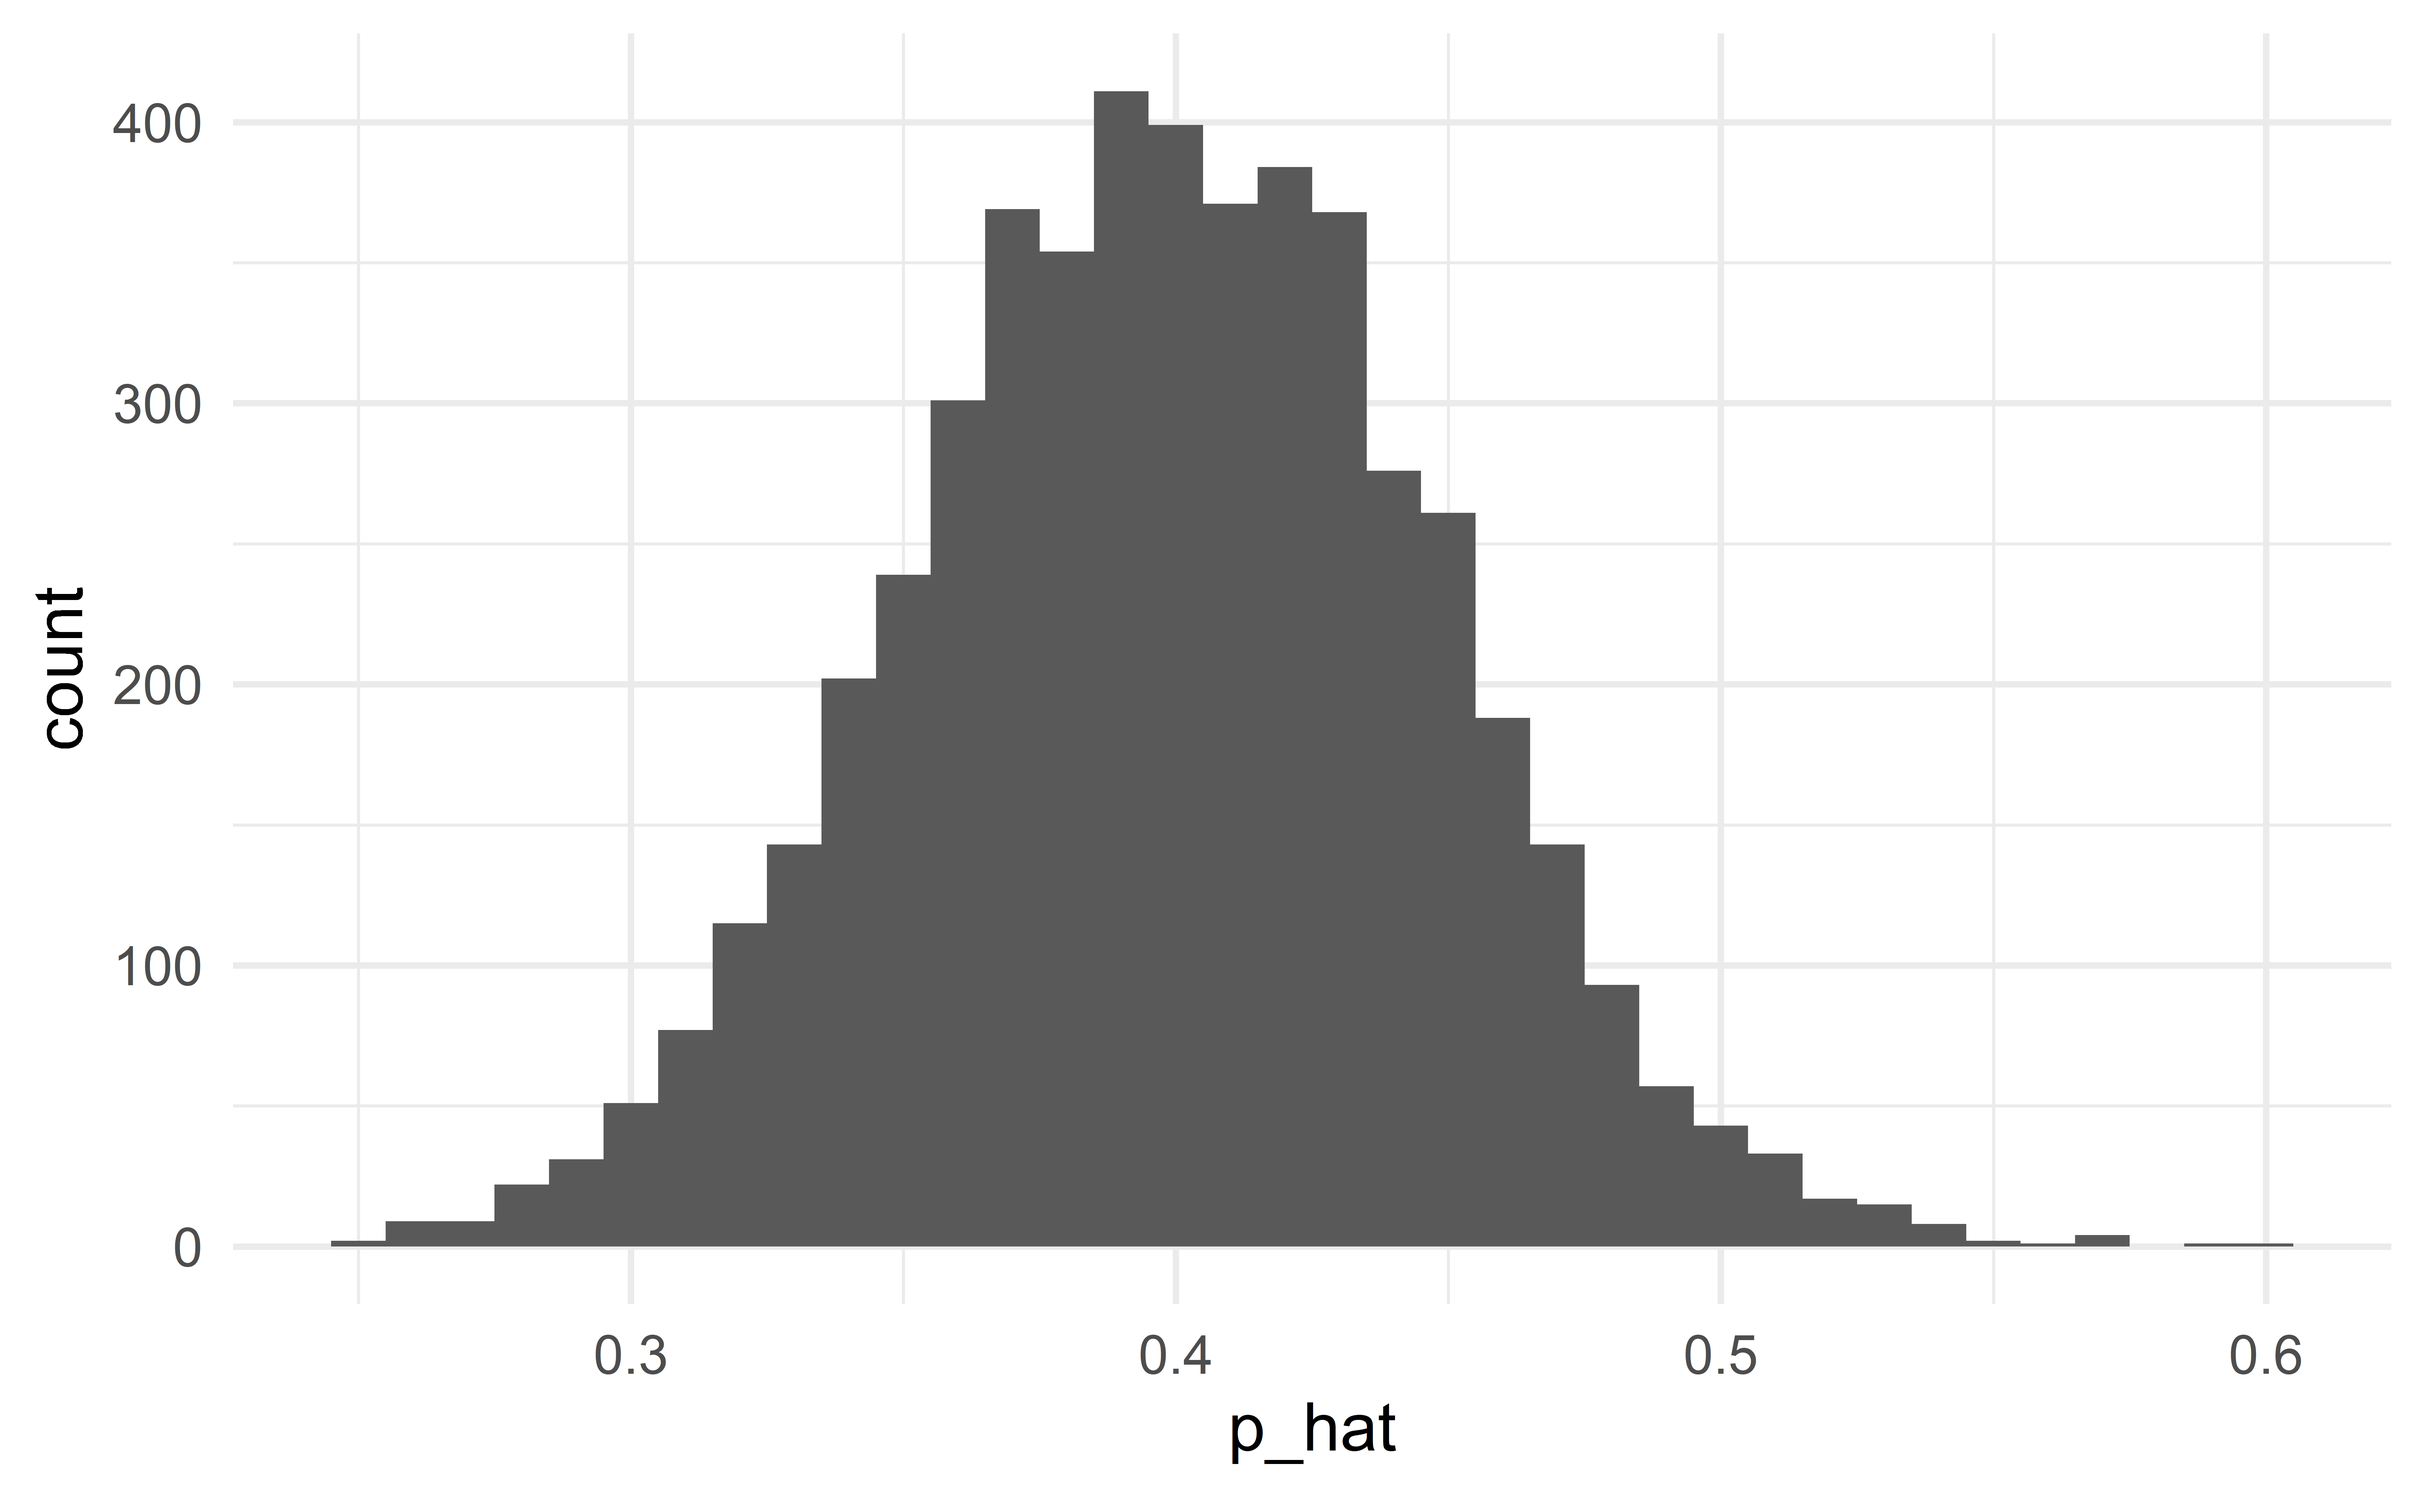
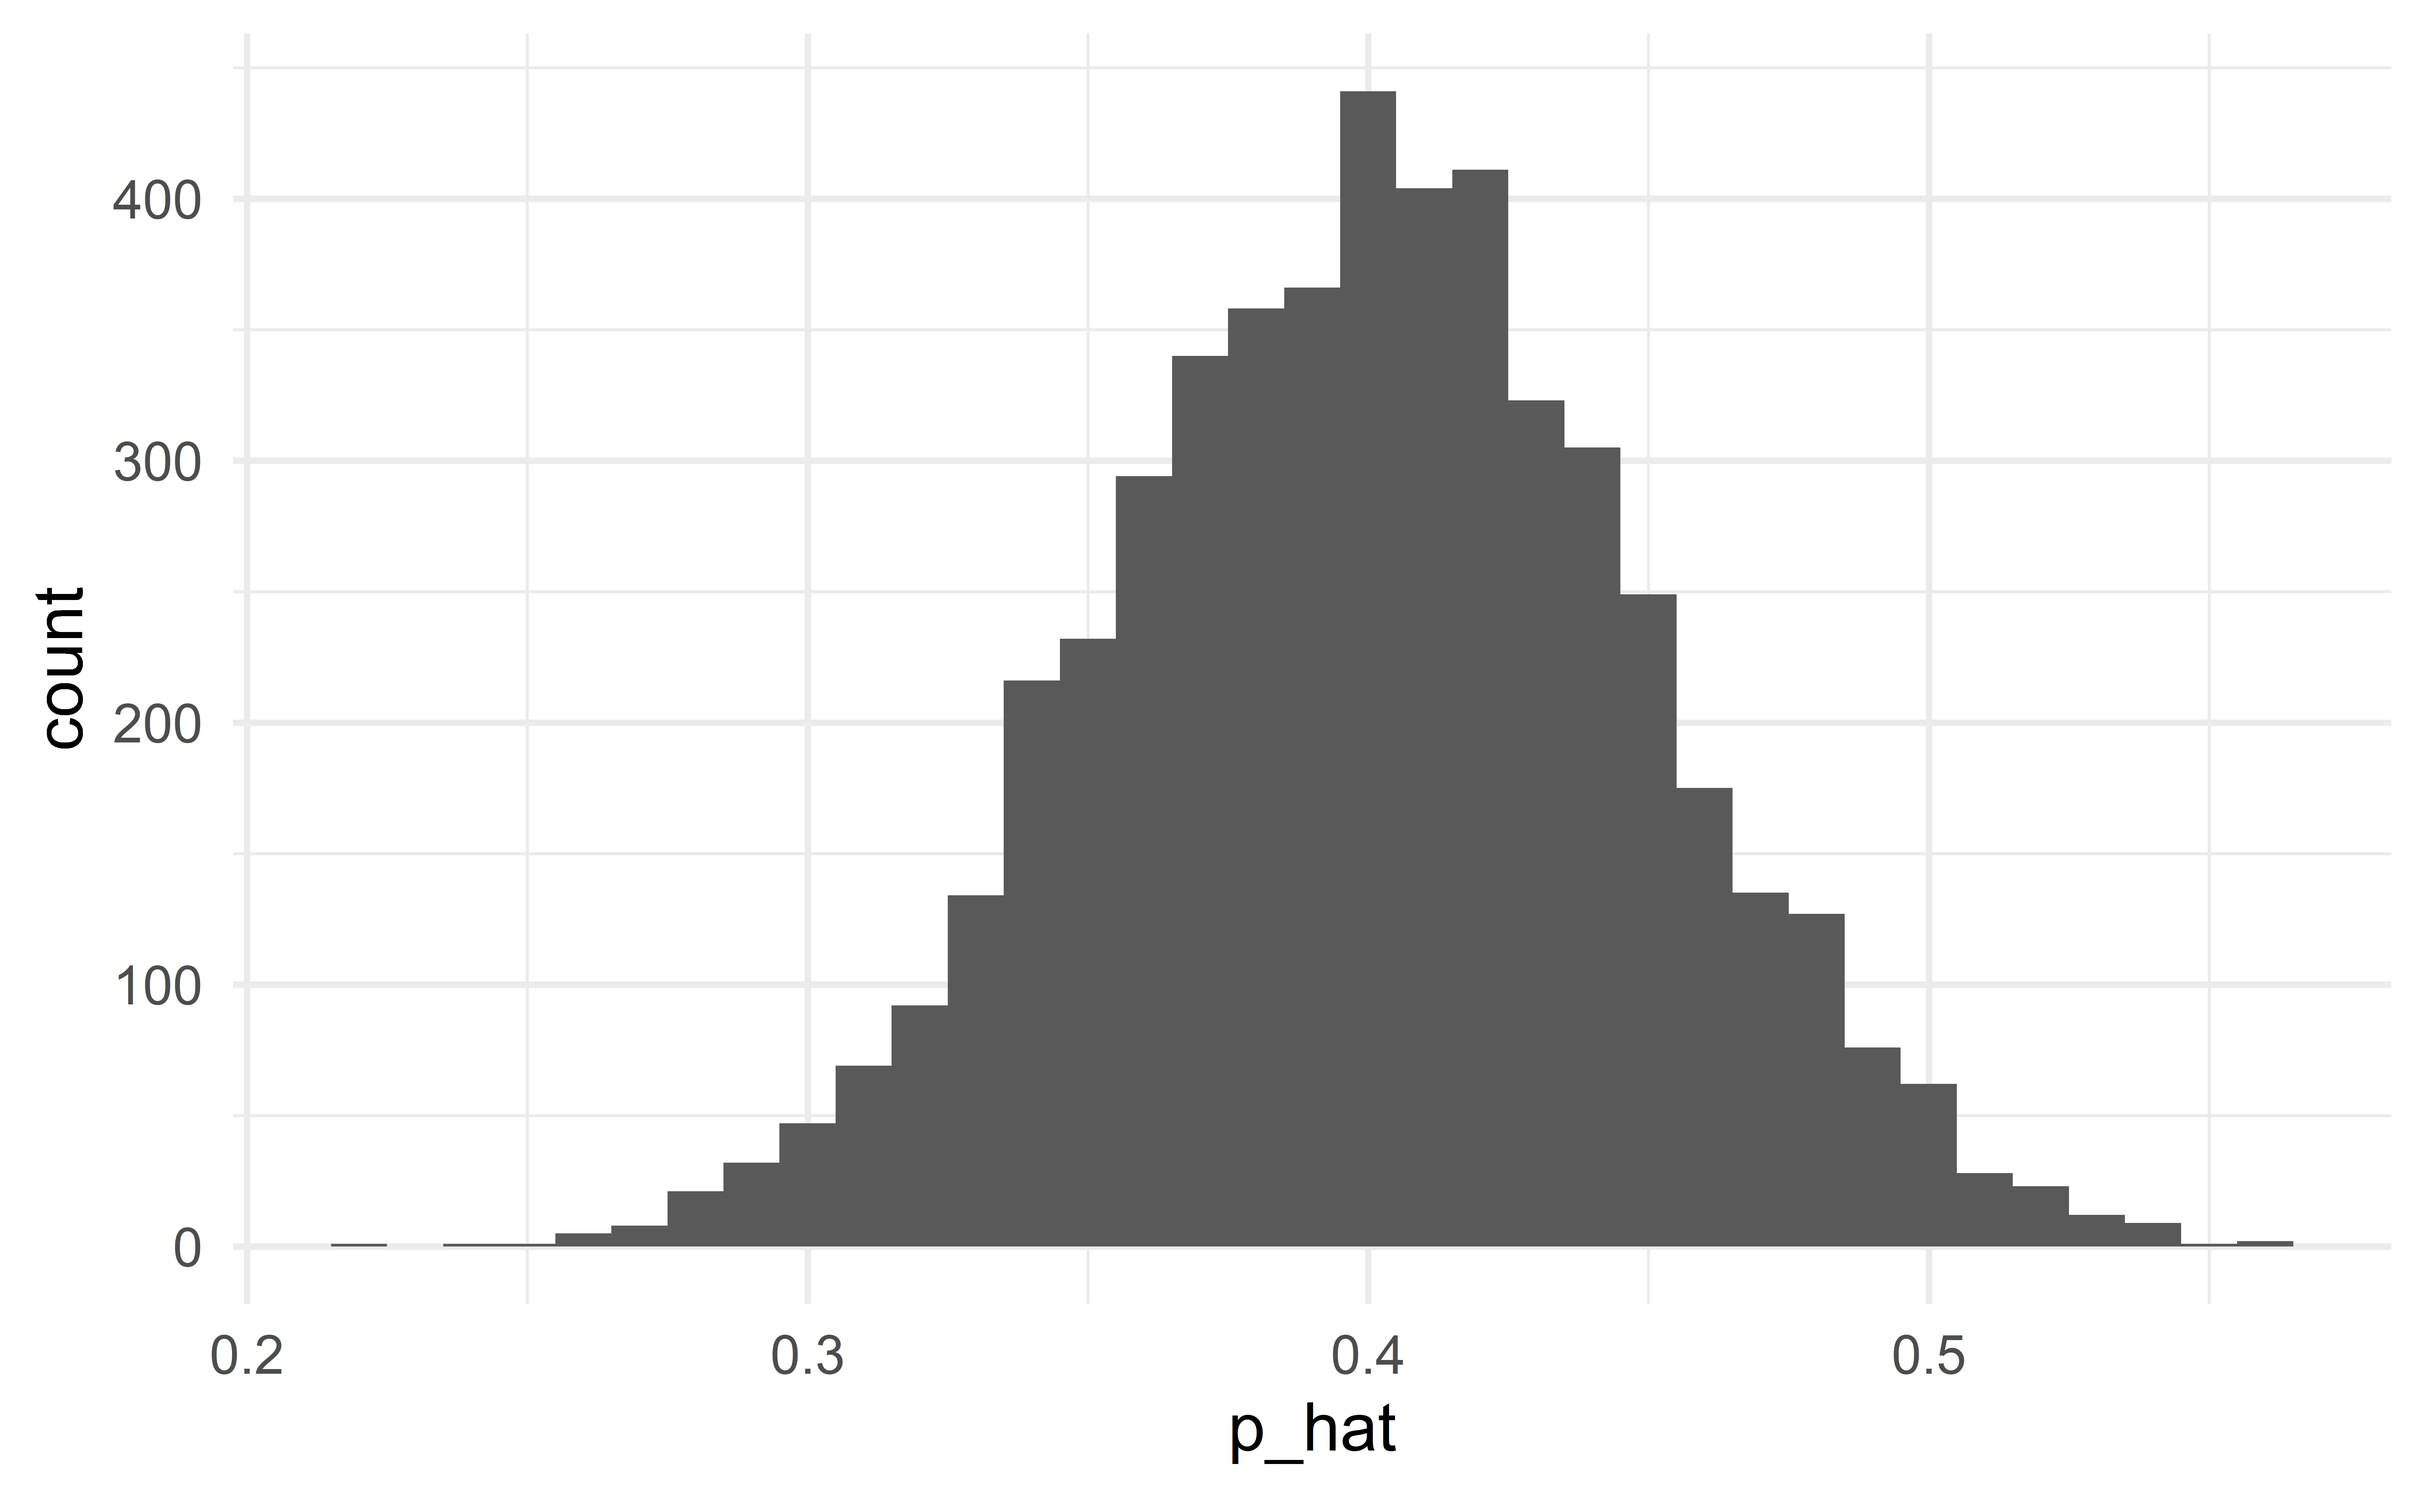
lec-12 announcements

diff --git a/docs/slides/lec-12.html b/docs/slides/lec-12.html
@@ -400,16 +400,24 @@
 <section id="announcements" class="slide level2 smaller">
 <h2>Announcements</h2>
 <ul>
-<li></li>
+<li><p>Tuesday: lecture</p></li>
+<li><p>Wednesday: work on project</p></li>
+<li><p>Thursday: work on project (3:30-5:00pm)</p></li>
+<li><p>Friday: presentations</p></li>
 </ul>
 </section>
-<section id="recap" class="slide level2">
+<section id="recap" class="slide level2 smaller">
 <h2>Recap</h2>
-<ul>
-<li><p>Simple linear regression (case 5)</p>
 <ul>
 <li><p>HT via simulation</p></li>
 <li><p>CI via bootstrap</p></li>
+<li><p>5 cases</p>
+<ul>
+<li><p>one proprotion</p></li>
+<li><p>two proportions</p></li>
+<li><p>one mean</p></li>
+<li><p>two means</p></li>
+<li><p>linear regression</p></li>
 </ul></li>
 </ul>
 </section>
@@ -417,15 +425,7 @@
 <h2>Outline</h2>
 <ul>
 <li>Normal approximation</li>
-<li>Classical approach to statistical inference
-<ul>
-<li>case 1 – one proportion</li>
-<li>case 2 – two proportions</li>
-<li>case 3 – one mean</li>
-<li>case 4 – two means</li>
-<li>case 4bis – paired means</li>
-<li>case 5 – regression</li>
-</ul></li>
+<li>Classical approach to statistical inference</li>
 <li>Standard error</li>
 </ul>
 </section>
@@ -445,7 +445,7 @@
 </div>
 <div class="cell" data-layout-align="center">
 <div class="cell-output-display">
-<div class="countdown" id="timer_62a78f33" style="right:0;bottom:0;" data-warnwhen="0">
+<div class="countdown" id="timer_62a78fea" style="right:0;bottom:0;" data-warnwhen="0">
 <code class="countdown-time"><span class="countdown-digits minutes">03</span><span class="countdown-digits colon">:</span><span class="countdown-digits seconds">00</span></code>
 </div>
 </div>
@@ -459,7 +459,7 @@
 <section id="normal-distribution" class="slide level2">
 <h2>Normal distribution</h2>
 <div class="cell" data-layout-align="center">
-<div class="sourceCode" id="cb1"><pre class="sourceCode numberSource r cell-code number-lines code-with-copy"><code class="sourceCode r"><span id="cb1-1"><a href="#cb1-1"></a><span class="fu">tibble</span>(<span class="at">x =</span> <span class="fu">seq</span>(<span class="sc">-</span><span class="dv">5</span>, <span class="dv">5</span>, <span class="at">by =</span> <span class="fl">0.01</span>)) <span class="sc">%&gt;%</span></span>
+<div class="sourceCode" id="cb1"><pre class="sourceCode numberSource r cell-code number-lines code-with-copy"><code class="sourceCode r"><span id="cb1-1"><a href="#cb1-1"></a><span class="fu">tibble</span>(<span class="at">x =</span> <span class="fu">seq</span>(<span class="sc">-</span><span class="dv">5</span>, <span class="dv">5</span>, <span class="at">by =</span> <span class="fl">0.001</span>)) <span class="sc">%&gt;%</span></span>
 <span id="cb1-2"><a href="#cb1-2"></a>  <span class="fu">mutate</span>(<span class="at">normal =</span> <span class="fu">dnorm</span>(x, <span class="at">mean =</span> <span class="dv">0</span>, <span class="at">sd =</span> <span class="dv">1</span>)) <span class="sc">%&gt;%</span></span>
 <span id="cb1-3"><a href="#cb1-3"></a>  <span class="fu">ggplot</span>() <span class="sc">+</span> </span>
 <span id="cb1-4"><a href="#cb1-4"></a>  <span class="fu">geom_line</span>(<span class="fu">aes</span>(x, normal))</span></code><button title="Copy to Clipboard" class="code-copy-button"><i class="bi"></i></button></pre></div>
@@ -560,7 +560,7 @@ X\sim N(\mu, \sigma^2)
 <section id="normal-approximation-is-good" class="slide level2">
 <h2>Normal approximation is good</h2>
 <div class="cell" data-layout-align="center">
-<div class="sourceCode" id="cb3"><pre class="sourceCode numberSource r cell-code number-lines code-with-copy"><code class="sourceCode r"><span id="cb3-1"><a href="#cb3-1"></a><span class="fu">tibble</span>(<span class="at">p_hat =</span> <span class="fu">seq</span>(<span class="fl">0.2</span>, <span class="fl">0.6</span>, <span class="at">by =</span> <span class="fl">0.01</span>)) <span class="sc">%&gt;%</span></span>
+<div class="sourceCode" id="cb3"><pre class="sourceCode numberSource r cell-code number-lines code-with-copy"><code class="sourceCode r"><span id="cb3-1"><a href="#cb3-1"></a><span class="fu">tibble</span>(<span class="at">p_hat =</span> <span class="fu">seq</span>(<span class="fl">0.2</span>, <span class="fl">0.6</span>, <span class="at">by =</span> <span class="fl">0.001</span>)) <span class="sc">%&gt;%</span></span>
 <span id="cb3-2"><a href="#cb3-2"></a>  <span class="fu">mutate</span>(<span class="at">normal_approximation =</span> <span class="fu">dnorm</span>(p_hat, <span class="at">mean =</span> p, <span class="at">sd =</span> <span class="fu">sqrt</span>(p<span class="sc">*</span>(<span class="dv">1</span><span class="sc">-</span>p)<span class="sc">/</span>n))) <span class="sc">%&gt;%</span></span>
 <span id="cb3-3"><a href="#cb3-3"></a>  <span class="fu">ggplot</span>() <span class="sc">+</span></span>
 <span id="cb3-4"><a href="#cb3-4"></a>  <span class="fu">geom_line</span>(<span class="fu">aes</span>(<span class="at">x =</span> p_hat, <span class="at">y =</span> normal_approximation))</span></code><button title="Copy to Clipboard" class="code-copy-button"><i class="bi"></i></button></pre></div>
@@ -600,7 +600,7 @@ X\sim N(\mu, \sigma^2)
 <section id="normal-approximation-fails" class="slide level2">
 <h2>Normal approximation fails</h2>
 <div class="cell" data-layout-align="center">
-<div class="sourceCode" id="cb5"><pre class="sourceCode numberSource r cell-code number-lines code-with-copy"><code class="sourceCode r"><span id="cb5-1"><a href="#cb5-1"></a><span class="fu">tibble</span>(<span class="at">p_hat =</span> <span class="fu">seq</span>(<span class="sc">-</span><span class="fl">0.05</span>, <span class="fl">0.1</span>, <span class="at">by =</span> <span class="fl">0.01</span>)) <span class="sc">%&gt;%</span></span>
+<div class="sourceCode" id="cb5"><pre class="sourceCode numberSource r cell-code number-lines code-with-copy"><code class="sourceCode r"><span id="cb5-1"><a href="#cb5-1"></a><span class="fu">tibble</span>(<span class="at">p_hat =</span> <span class="fu">seq</span>(<span class="sc">-</span><span class="fl">0.05</span>, <span class="fl">0.1</span>, <span class="at">by =</span> <span class="fl">0.001</span>)) <span class="sc">%&gt;%</span></span>
 <span id="cb5-2"><a href="#cb5-2"></a>  <span class="fu">mutate</span>(<span class="at">normal_approximation =</span> <span class="fu">dnorm</span>(p_hat, <span class="at">mean =</span> p, <span class="at">sd =</span> <span class="fu">sqrt</span>(p<span class="sc">*</span>(<span class="dv">1</span><span class="sc">-</span>p)<span class="sc">/</span>n))) <span class="sc">%&gt;%</span></span>
 <span id="cb5-3"><a href="#cb5-3"></a>  <span class="fu">ggplot</span>() <span class="sc">+</span> <span class="fu">geom_line</span>(<span class="fu">aes</span>(<span class="at">x =</span> p_hat, <span class="at">y =</span> normal_approximation)) <span class="sc">+</span> <span class="fu">xlim</span>(<span class="sc">-</span><span class="fl">0.05</span>, <span class="fl">0.1</span>)</span></code><button title="Copy to Clipboard" class="code-copy-button"><i class="bi"></i></button></pre></div>
 
@@ -722,7 +722,7 @@ sample estimates:
 </div>
 <div class="cell" data-layout-align="center">
 <div class="cell-output-display">
-<div class="countdown" id="timer_62a78cd9" style="right:0;bottom:0;" data-warnwhen="0">
+<div class="countdown" id="timer_62a79187" style="right:0;bottom:0;" data-warnwhen="0">
 <code class="countdown-time"><span class="countdown-digits minutes">05</span><span class="countdown-digits colon">:</span><span class="countdown-digits seconds">00</span></code>
 </div>
 </div>
@@ -792,7 +792,7 @@ sample estimates:
 </div>
 <div class="cell" data-layout-align="center">
 <div class="cell-output-display">
-<div class="countdown" id="timer_62a78d35" style="right:0;bottom:0;" data-warnwhen="0">
+<div class="countdown" id="timer_62a78fd2" style="right:0;bottom:0;" data-warnwhen="0">
 <code class="countdown-time"><span class="countdown-digits minutes">06</span><span class="countdown-digits colon">:</span><span class="countdown-digits seconds">00</span></code>
 </div>
 </div>
@@ -857,7 +857,7 @@ mean of x
 </div>
 <div class="cell" data-layout-align="center">
 <div class="cell-output-display">
-<div class="countdown" id="timer_62a78fd3" style="right:0;bottom:0;" data-warnwhen="0">
+<div class="countdown" id="timer_62a79143" style="right:0;bottom:0;" data-warnwhen="0">
 <code class="countdown-time"><span class="countdown-digits minutes">03</span><span class="countdown-digits colon">:</span><span class="countdown-digits seconds">00</span></code>
 </div>
 </div>
@@ -933,7 +933,7 @@ mean of x mean of y
 </div>
 <div class="cell" data-layout-align="center">
 <div class="cell-output-display">
-<div class="countdown" id="timer_62a7904e" style="right:0;bottom:0;" data-warnwhen="0">
+<div class="countdown" id="timer_62a79100" style="right:0;bottom:0;" data-warnwhen="0">
 <code class="countdown-time"><span class="countdown-digits minutes">02</span><span class="countdown-digits colon">:</span><span class="countdown-digits seconds">00</span></code>
 </div>
 </div>
@@ -982,7 +982,7 @@ mean of the differences
 </div>
 <div class="cell" data-layout-align="center">
 <div class="cell-output-display">
-<div class="countdown" id="timer_62a78d45" style="right:0;bottom:0;" data-warnwhen="0">
+<div class="countdown" id="timer_62a79097" style="right:0;bottom:0;" data-warnwhen="0">
 <code class="countdown-time"><span class="countdown-digits minutes">02</span><span class="countdown-digits colon">:</span><span class="countdown-digits seconds">00</span></code>
 </div>
 </div>
@@ -1092,7 +1092,7 @@ mean of the differences
 </div>
 <div class="cell" data-layout-align="center">
 <div class="cell-output-display">
-<div class="countdown" id="timer_62a78de6" style="right:0;bottom:0;" data-warnwhen="0">
+<div class="countdown" id="timer_62a793b0" style="right:0;bottom:0;" data-warnwhen="0">
 <code class="countdown-time"><span class="countdown-digits minutes">10</span><span class="countdown-digits colon">:</span><span class="countdown-digits seconds">00</span></code>
 </div>
 </div>
@@ -1107,7 +1107,7 @@ mean of the differences
 <h1>Standard error</h1>
 
 </section>
-<section id="standard-error-1" class="slide level2">
+<section id="standard-error-1" class="slide level2 smaller">
 <h2>Standard error</h2>
 <p><strong>Standard error (SE)</strong>: standard deviation of the normal approximation</p>
 <p>It measures the variability of the sample statistic.</p>
@@ -1168,8 +1168,8 @@ mean of the differences
 </div>
 <div class="cell" data-layout-align="center">
 <div class="cell-output-display">
-<div class="countdown" id="timer_62a78d91" style="right:0;bottom:0;" data-warnwhen="0">
-<code class="countdown-time"><span class="countdown-digits minutes">01</span><span class="countdown-digits colon">:</span><span class="countdown-digits seconds">00</span></code>
+<div class="countdown" id="timer_62a79337" style="right:0;bottom:0;" data-warnwhen="0">
+<code class="countdown-time"><span class="countdown-digits minutes">02</span><span class="countdown-digits colon">:</span><span class="countdown-digits seconds">00</span></code>
 </div>
 </div>
 </div>
